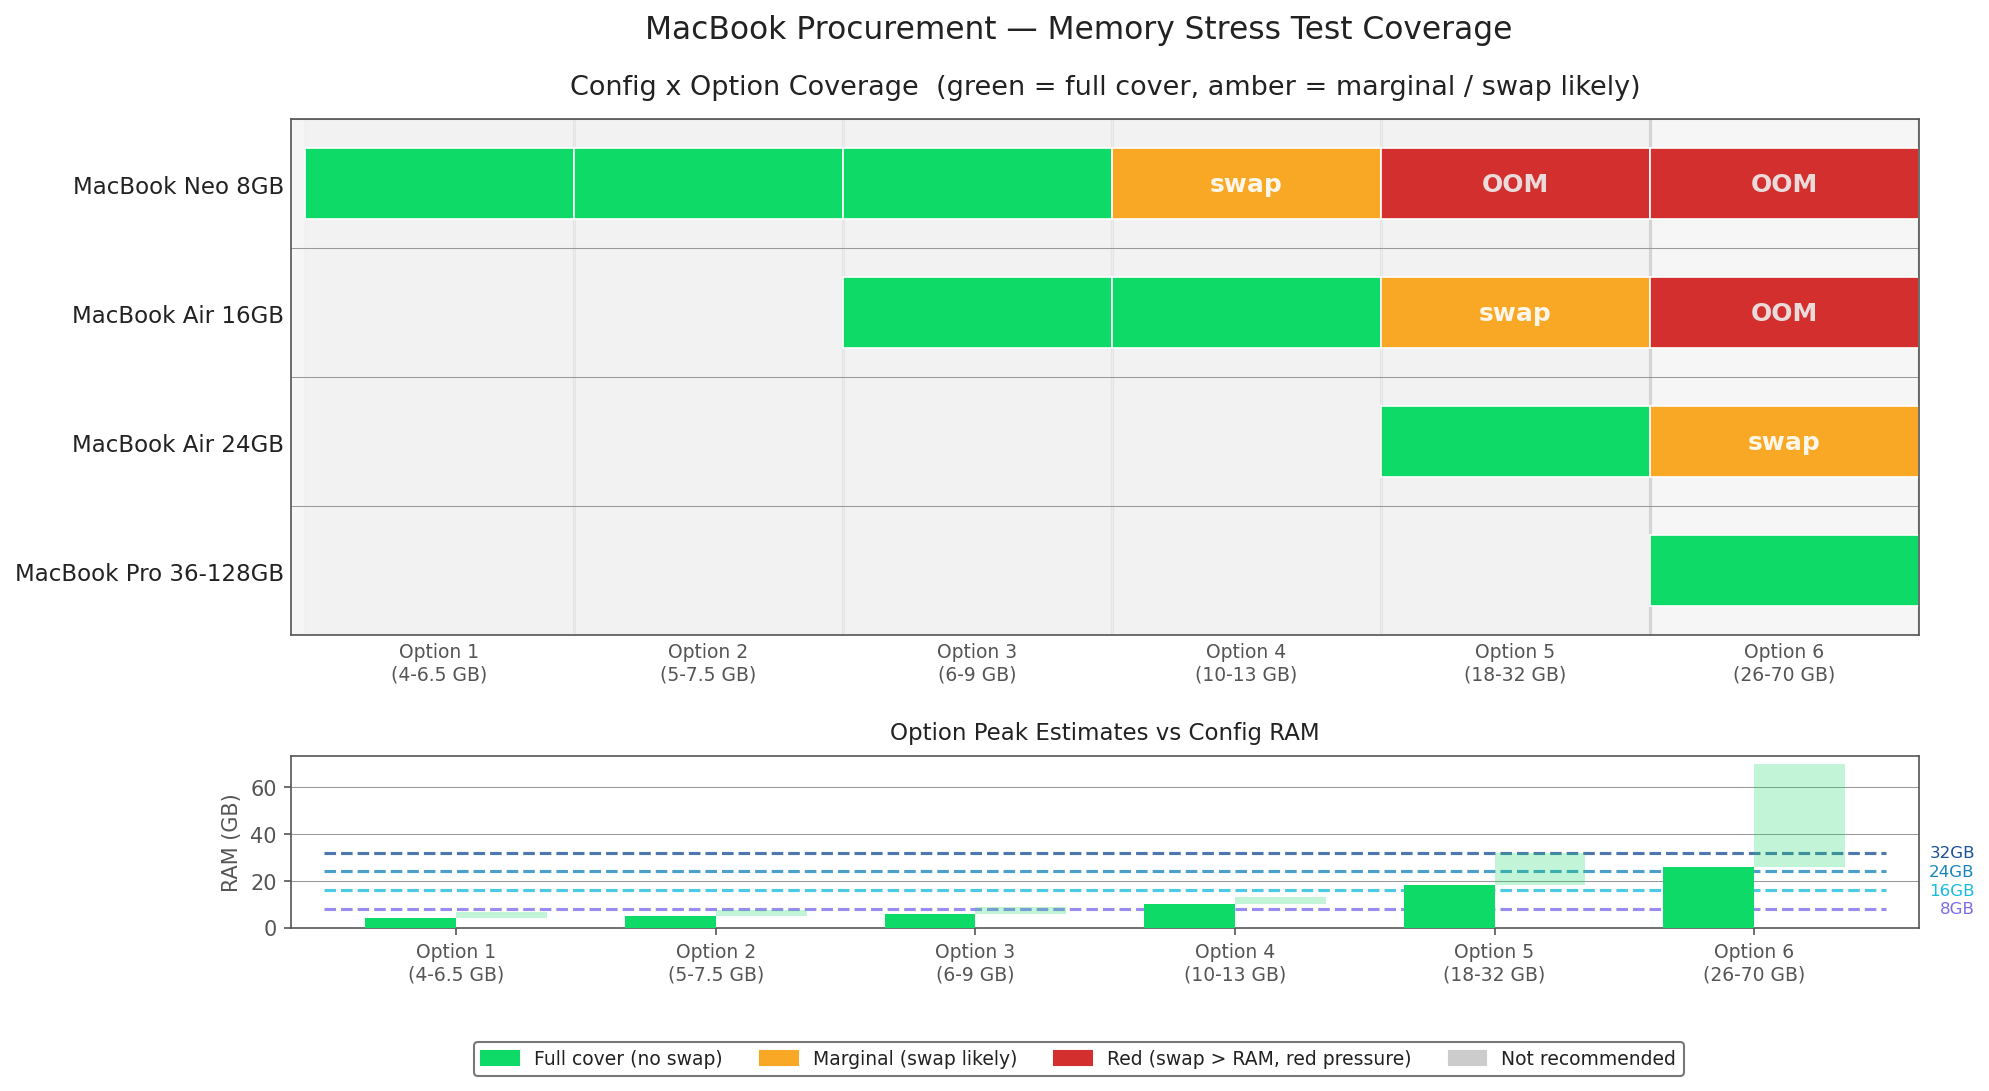
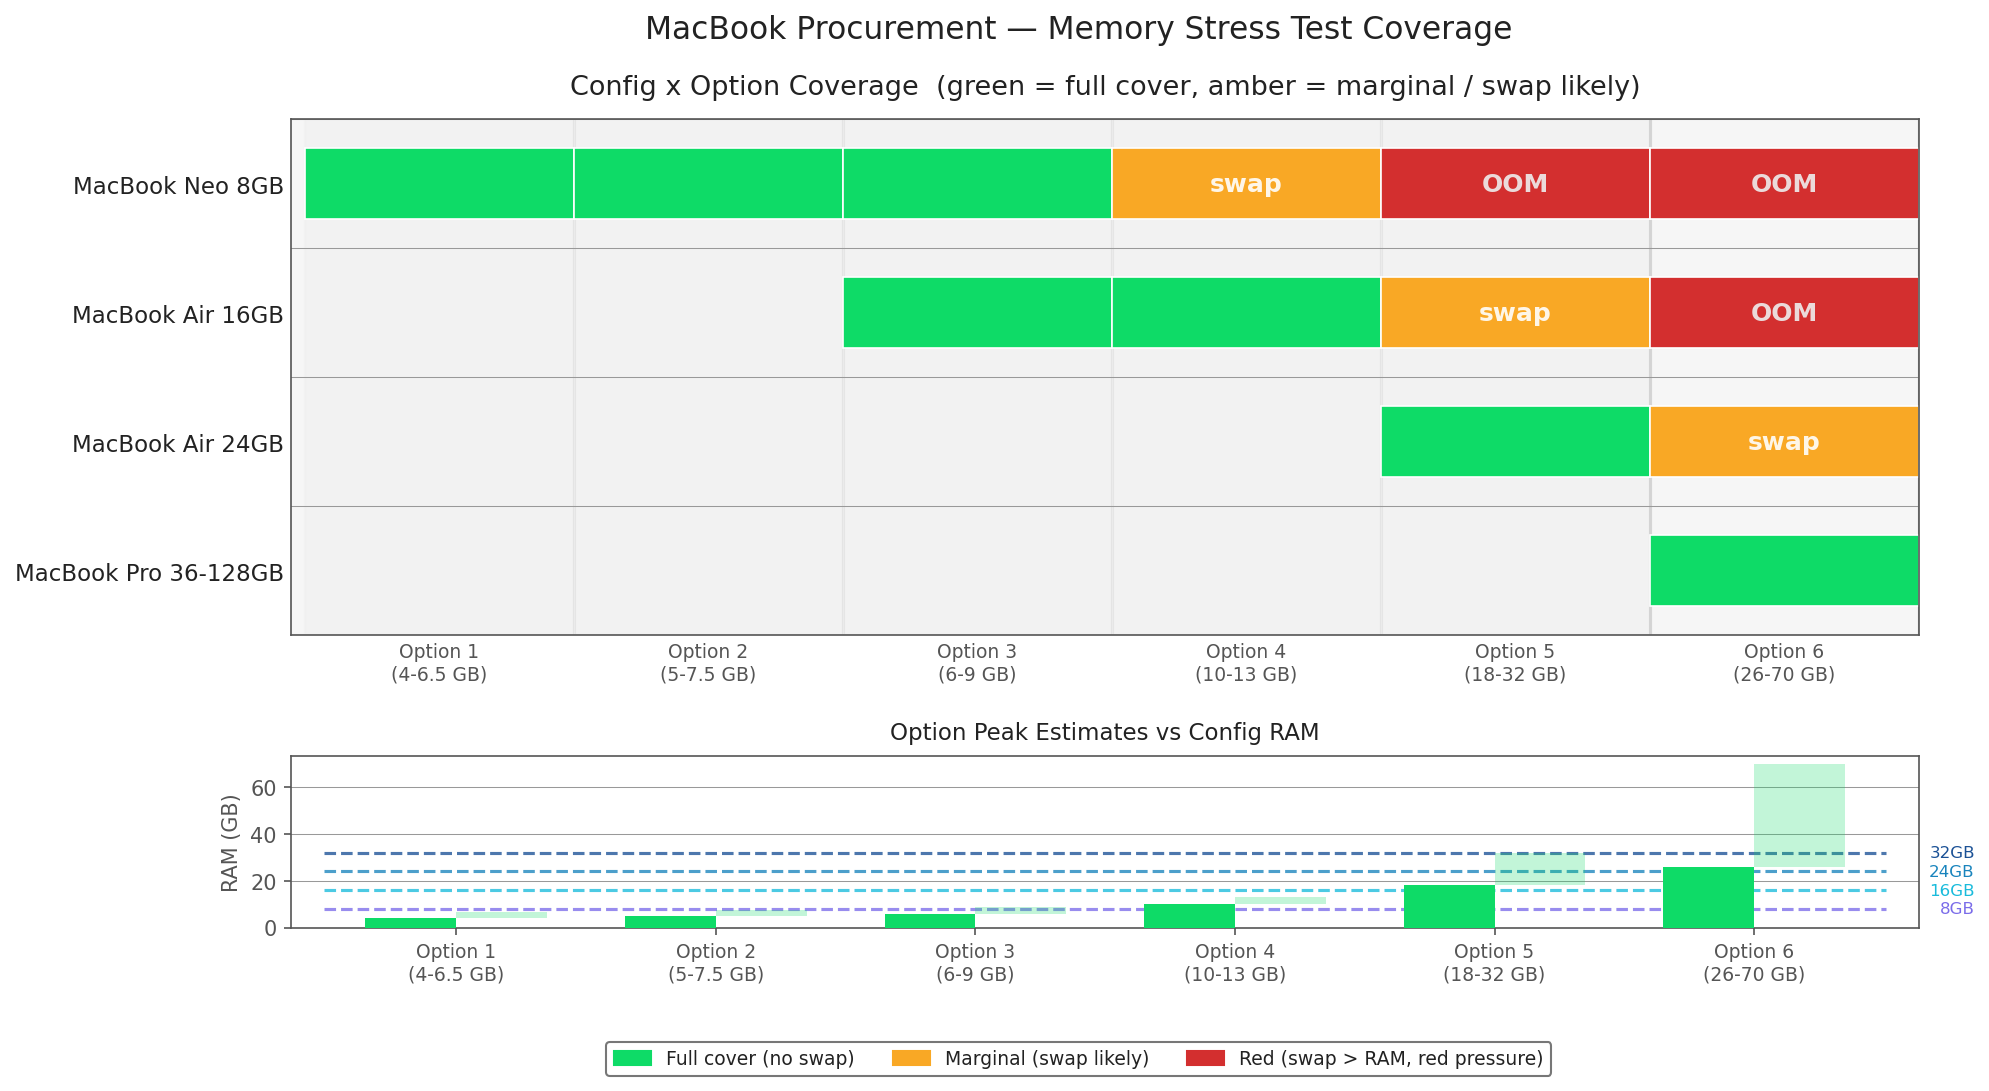
update poll.md with swap and compression explaination

Changed region(s): [[0.2182, 0.9349, 0.8416, 0.9973]]

diff --git a/results/poll/poll.md b/results/poll/poll.md
@@ -8,7 +8,7 @@
 
 This study evaluates which MacBook configuration can handle each team's peak memory workload without swap. We surveyed six simultaneous application tiers (Options 1–6, from basic office apps to local LLM/PyTorch environments), estimated realistic RAM peaks for each, and mapped them against four hardware configs: MacBook Neo 8GB, MacBook Air 16GB, MacBook Air 24GB, and MacBook Pro 36GB.
 
-**Key findings:** The MacBook Neo 8GB and MacBook Air 16GB covers the majority of ERP workloads (Options 1–4), with exception on users who might need to use PowerQuery to parse large amounts of data, concurrently while using other RAM heavy apps. Docker/VM-heavy work requires 24GB. Only local LLM or ML training workloads (Option 6) genuinely need 36GB. Three config tiers are insufficient for their next option tier due to aggressive swap requirements — memory compression alone cannot bridge the gap and would often end up Out-of-Memory(OOM), leading apps to crash.
+**Key findings:** The MacBook Neo 8GB and MacBook Air 16GB covers the majority of ERP workloads (Options 1–4), with exception on users who might need to use PowerQuery to parse from large datasets, concurrently while using other RAM heavy apps. Docker/VM-heavy work requires 24GB. Only local LLM or ML training workloads (Option 6) genuinely need 36GB. Three config tiers are insufficient for their next option tier due to aggressive swap requirements — memory compression alone cannot bridge the gap and would often end up Out-of-Memory(OOM), leading apps to crash.
 
 **Recommendation:** Based on the poll results, most ERP roles will be covered by **MacBook Neo 8GB and MacBook Air 16GB** (Options 1–4). If Docker/VMs are needed, bump to **MacBook Air 24GB**. Only ML workloads (Option 6) justify **MacBook Pro 36-128GB**.
 
@@ -63,6 +63,17 @@ We did a poll on 7th May 2026 to better understand ERP members daily workload.
 
 ---
 ![alt text](gantt_chart.png)
+
+<div style="border: 2px solid black; border-radius: 8px; padding: 16px; margin: 16px 0;">
+
+**Understanding the color coding:**
+- **Green** — RAM fully covers the workload peak. No swap, no compression overhead.
+- **Amber** — RAM is close to the peak. macOS memory compression (`Apple Memory Compressor`) handles the gap actively. Performance remains acceptable; swap is possible but light.
+- **Red** — Peak exceeds RAM by a significant margin. Active disk swap is unavoidable; performance drops 10–100× and red memory pressure will trigger. Running apps will crash or be force-quit.
+
+*Memory compression is always active on Apple Silicon — it helps in amber cases but cannot compensate for large gaps. Swap means the system is paging to SSD/flash, not just compressing in RAM.*
+
+</div>
 
 **Total Peak Estimates by Options**
 